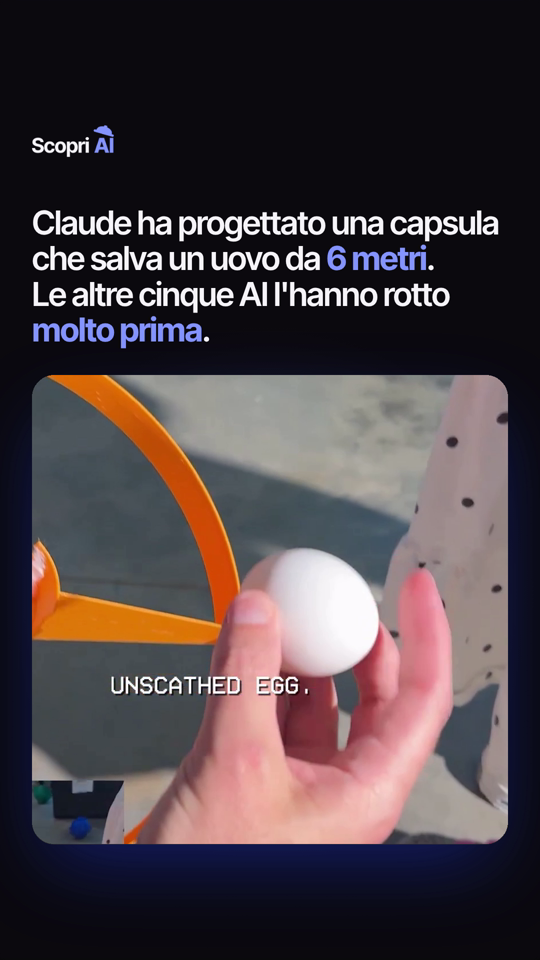
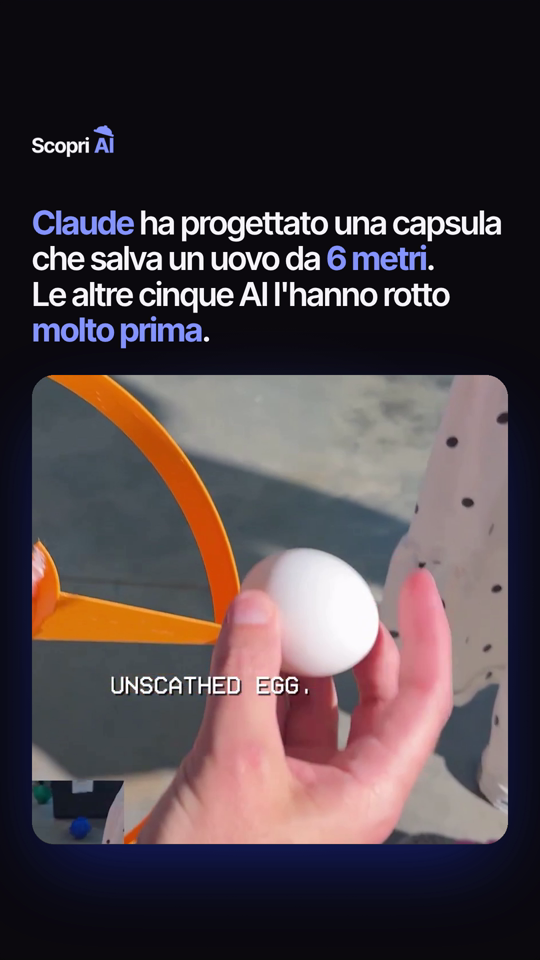
Reel uovo (19/10): versione B scelta, Claude in blu, caption con le 6 AI
Claude-Session: https://claude.ai/code/session_015XQkm4Cpr1VFkhHxxgYxuJ

Changed region(s): [[0.0593, 0.2188, 0.9481, 0.25]]

diff --git a/carousels/2026-10-19-reel-uovo-sei-ai/note.md b/carousels/2026-10-19-reel-uovo-sei-ai/note.md
@@ -12,11 +12,11 @@ Solo Reel, niente carosello. Fonte unica accettata dal proprietario: prova di un
 - Le altre cinque: Gemini, Grok, Meta e GPT-6 crepati, Qwen spiaccicato. "Rotto" regge; "molto prima" perché hanno ceduto a 1,2 m (GPT-6 a 2,4 m).
 - Restano le scritte piccole dell'autore al centro ("UNSCATHED EGG", "EGG SURVIVED", "20 FEET"): sono sottotitoli in inglese, non si tolgono con lo zoom senza perdere l'uovo.
 
-## Bozza caption Reel (passa caption_check: CAPTION PRONTA, 438 caratteri)
+## Bozza caption Reel (19/10, dopo le correzioni: tutte e 6 le AI nella prima riga; CAPTION PRONTA, 445 caratteri)
 ```
-Claude, ChatGPT, Gemini: sei intelligenze artificiali hanno progettato una capsula per salvare un uovo in caduta.
+Claude, ChatGPT, Gemini, Grok, Meta AI e Qwen: sei intelligenze artificiali hanno progettato una capsula per salvare un uovo che cade.
 
-Stessa plastica, 20 batuffoli di cotone. Claude regge da 6 metri, GPT-6 da 2,4, le altre da 1,2. Solo la prova di un creator.
+Stessi materiali per tutte. Claude regge da 6 metri, ChatGPT da 2,4, le altre da 1,2. È la prova di un creator.
 
 📩 Mandalo a chi dice che le AI sono tutte uguali. Su quale avresti scommesso?
 
@@ -24,6 +24,11 @@ Fonti: Roberto Nickson (@rpnickson) su X, "Agent Wars" ep. 3
 
 #intelligenzaartificiale #claude #chatgpt #stampa3d #ai
 ```
+
+## Scelta del proprietario (fermata 2)
+- Versione B, con *Claude* in blu nel titolo oltre a *6 metri* e *molto prima*.
+- Caption: nominare tutte e 6 le AI all'inizio.
+- Prima del finale vuole sapere quanto dura il video intero (109,8 s).
 
 ## Uscita
 Oggi 19/10 alle 20:00. Musica: strumentale, elettronica carica o "suspense che esplode" (da scegliere in finale, controllando `brand/musica-usata.md`).
